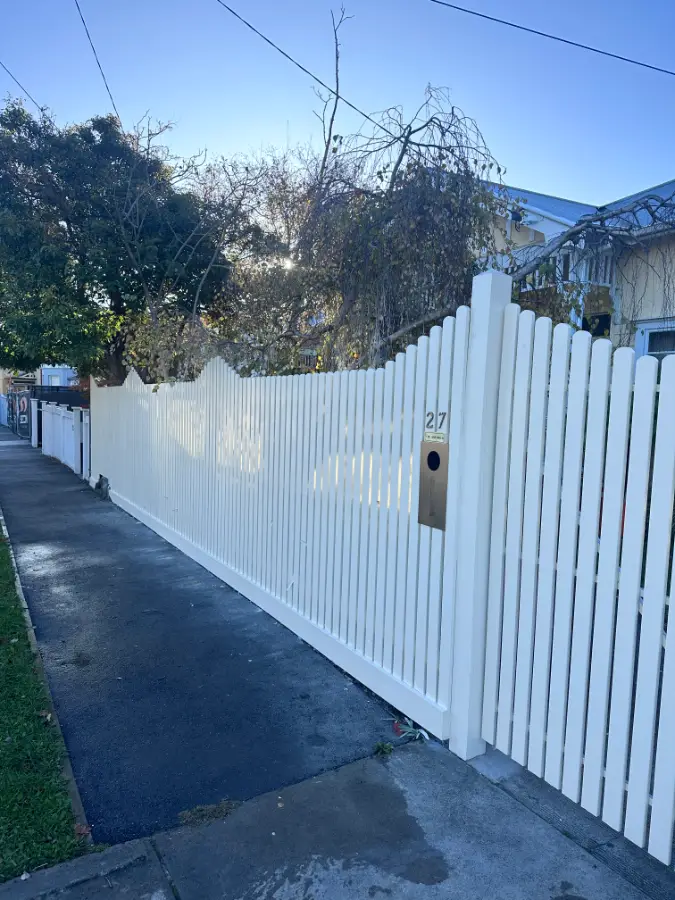
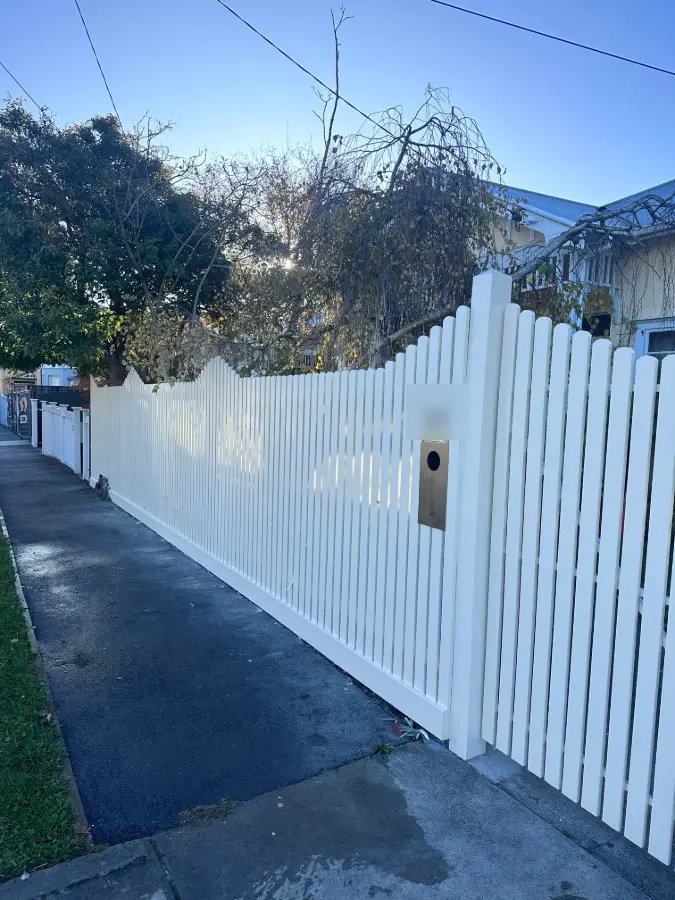
Blur the customer's street number, and stop three cabinet photos reading as one job (#150)
Two corrections Jimmy asked for after reviewing the published photos.

The finished picket fence showed the house number on the letterbox. Blurred. The
blur is applied at full source resolution and the result downscaled afterwards,
so the downscale cannot reconstruct what the blur removed; verified unreadable at
3x zoom. The letterbox still reads as a letterbox, so the frame is unchanged to
anyone looking at the fence.

On the cabinet resurfacing page, the finished white kitchen and the grey doors in
the spray booth are different jobs — confirmed by Jimmy, and visible in the colour
mismatch. Presented as three photos in a row with no heading, they read as one
project shot at two stages, which would have been untrue. Adds a deliberately
plural heading and a line naming them as separate jobs.

Fixed by wording rather than by dropping a photo: the booth shots are the only
evidence on the page that the spraying happens in-house, and they are worth more
than a tidier-looking sequence.

EXIF/GPS confirmed still absent from both re-encoded files. No generated output
changed; sitemap untouched.

Claude-Session: https://claude.ai/code/session_011QKFcVxWwYahKsiYaZbnjb

Changed region(s): [[0.6222, 0.4356, 0.6844, 0.4978]]

diff --git a/client/src/pages/KitchenCabinetResurfacing.tsx b/client/src/pages/KitchenCabinetResurfacing.tsx
@@ -87,6 +87,14 @@ export default function KitchenCabinetResurfacing() {
 
       <section className="py-12 bg-[#131316]">
         <div className="container">
+          {/* Deliberately plural: the finished white kitchen and the grey doors
+              in the booth are different jobs, not one project photographed at
+              two stages. Without this heading three photos in a row read as a
+              single before-and-after sequence, which would be untrue. */}
+          <h2 className="text-2xl font-bold text-[#EDEDEF] mb-2">Recent cabinet projects</h2>
+          <p className="text-[#B4B4B8] mb-6">
+            A selection of separate kitchen cabinet jobs — finished kitchens, and doors being sprayed in our booth.
+          </p>
           {/* Finished result runs full width: it is the only landscape shot of
               the three, and the one a visitor deciding on the service wants to
               see first. */}
